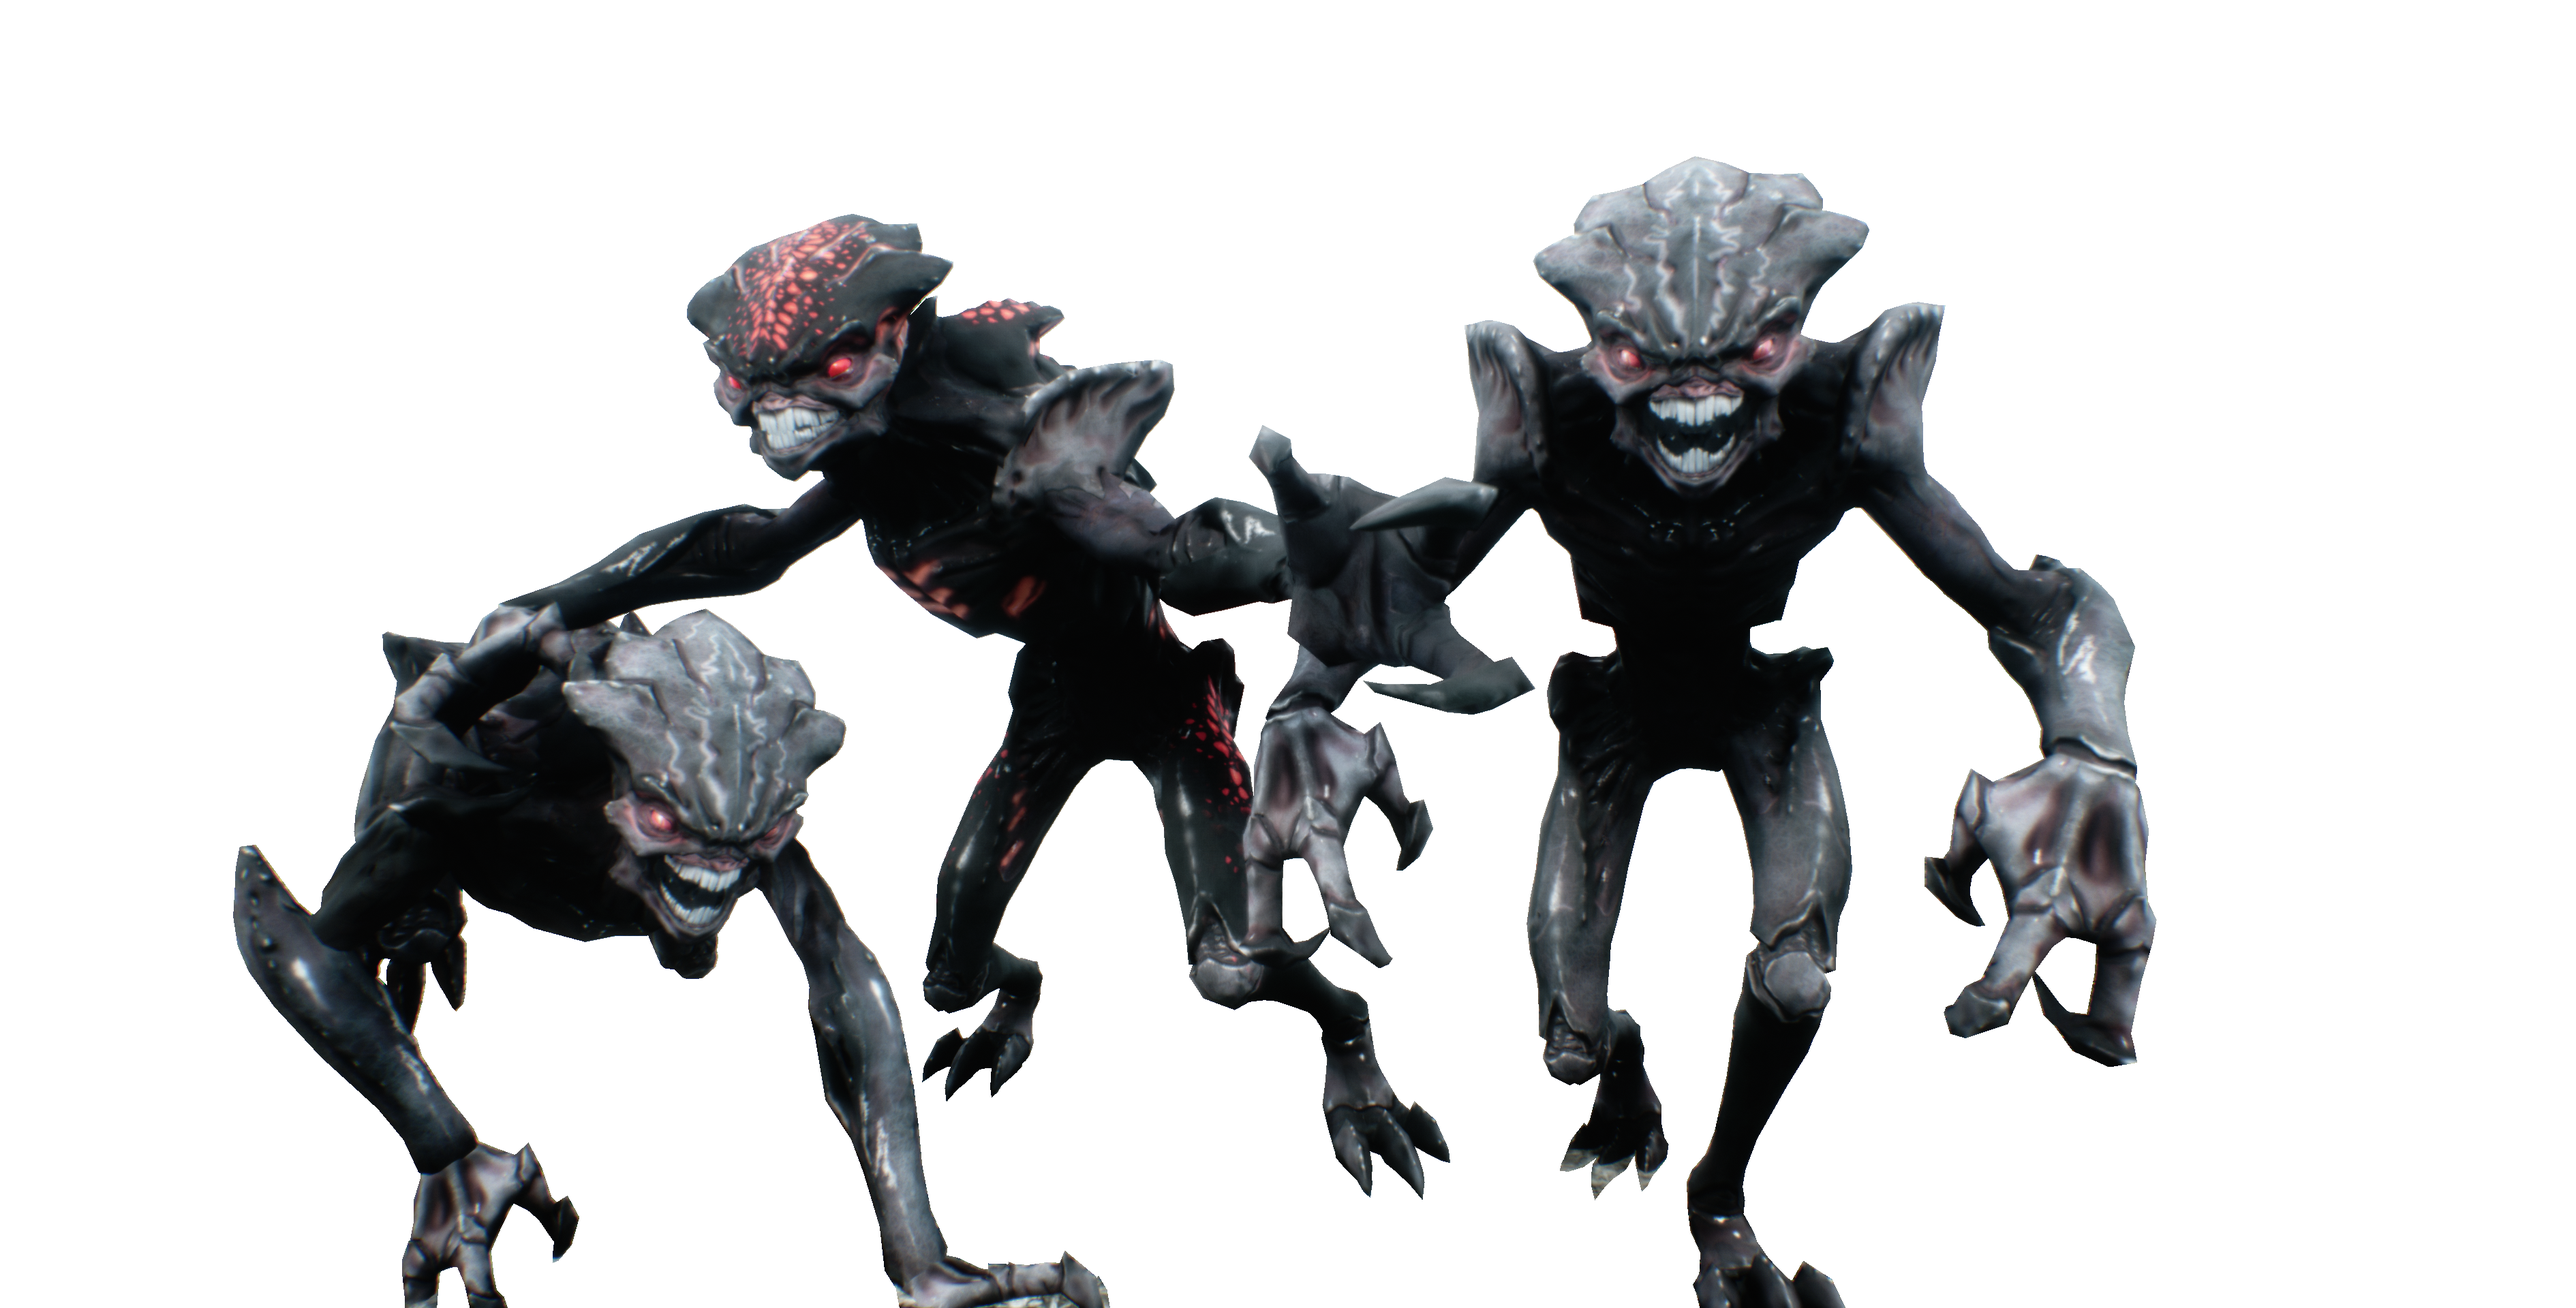
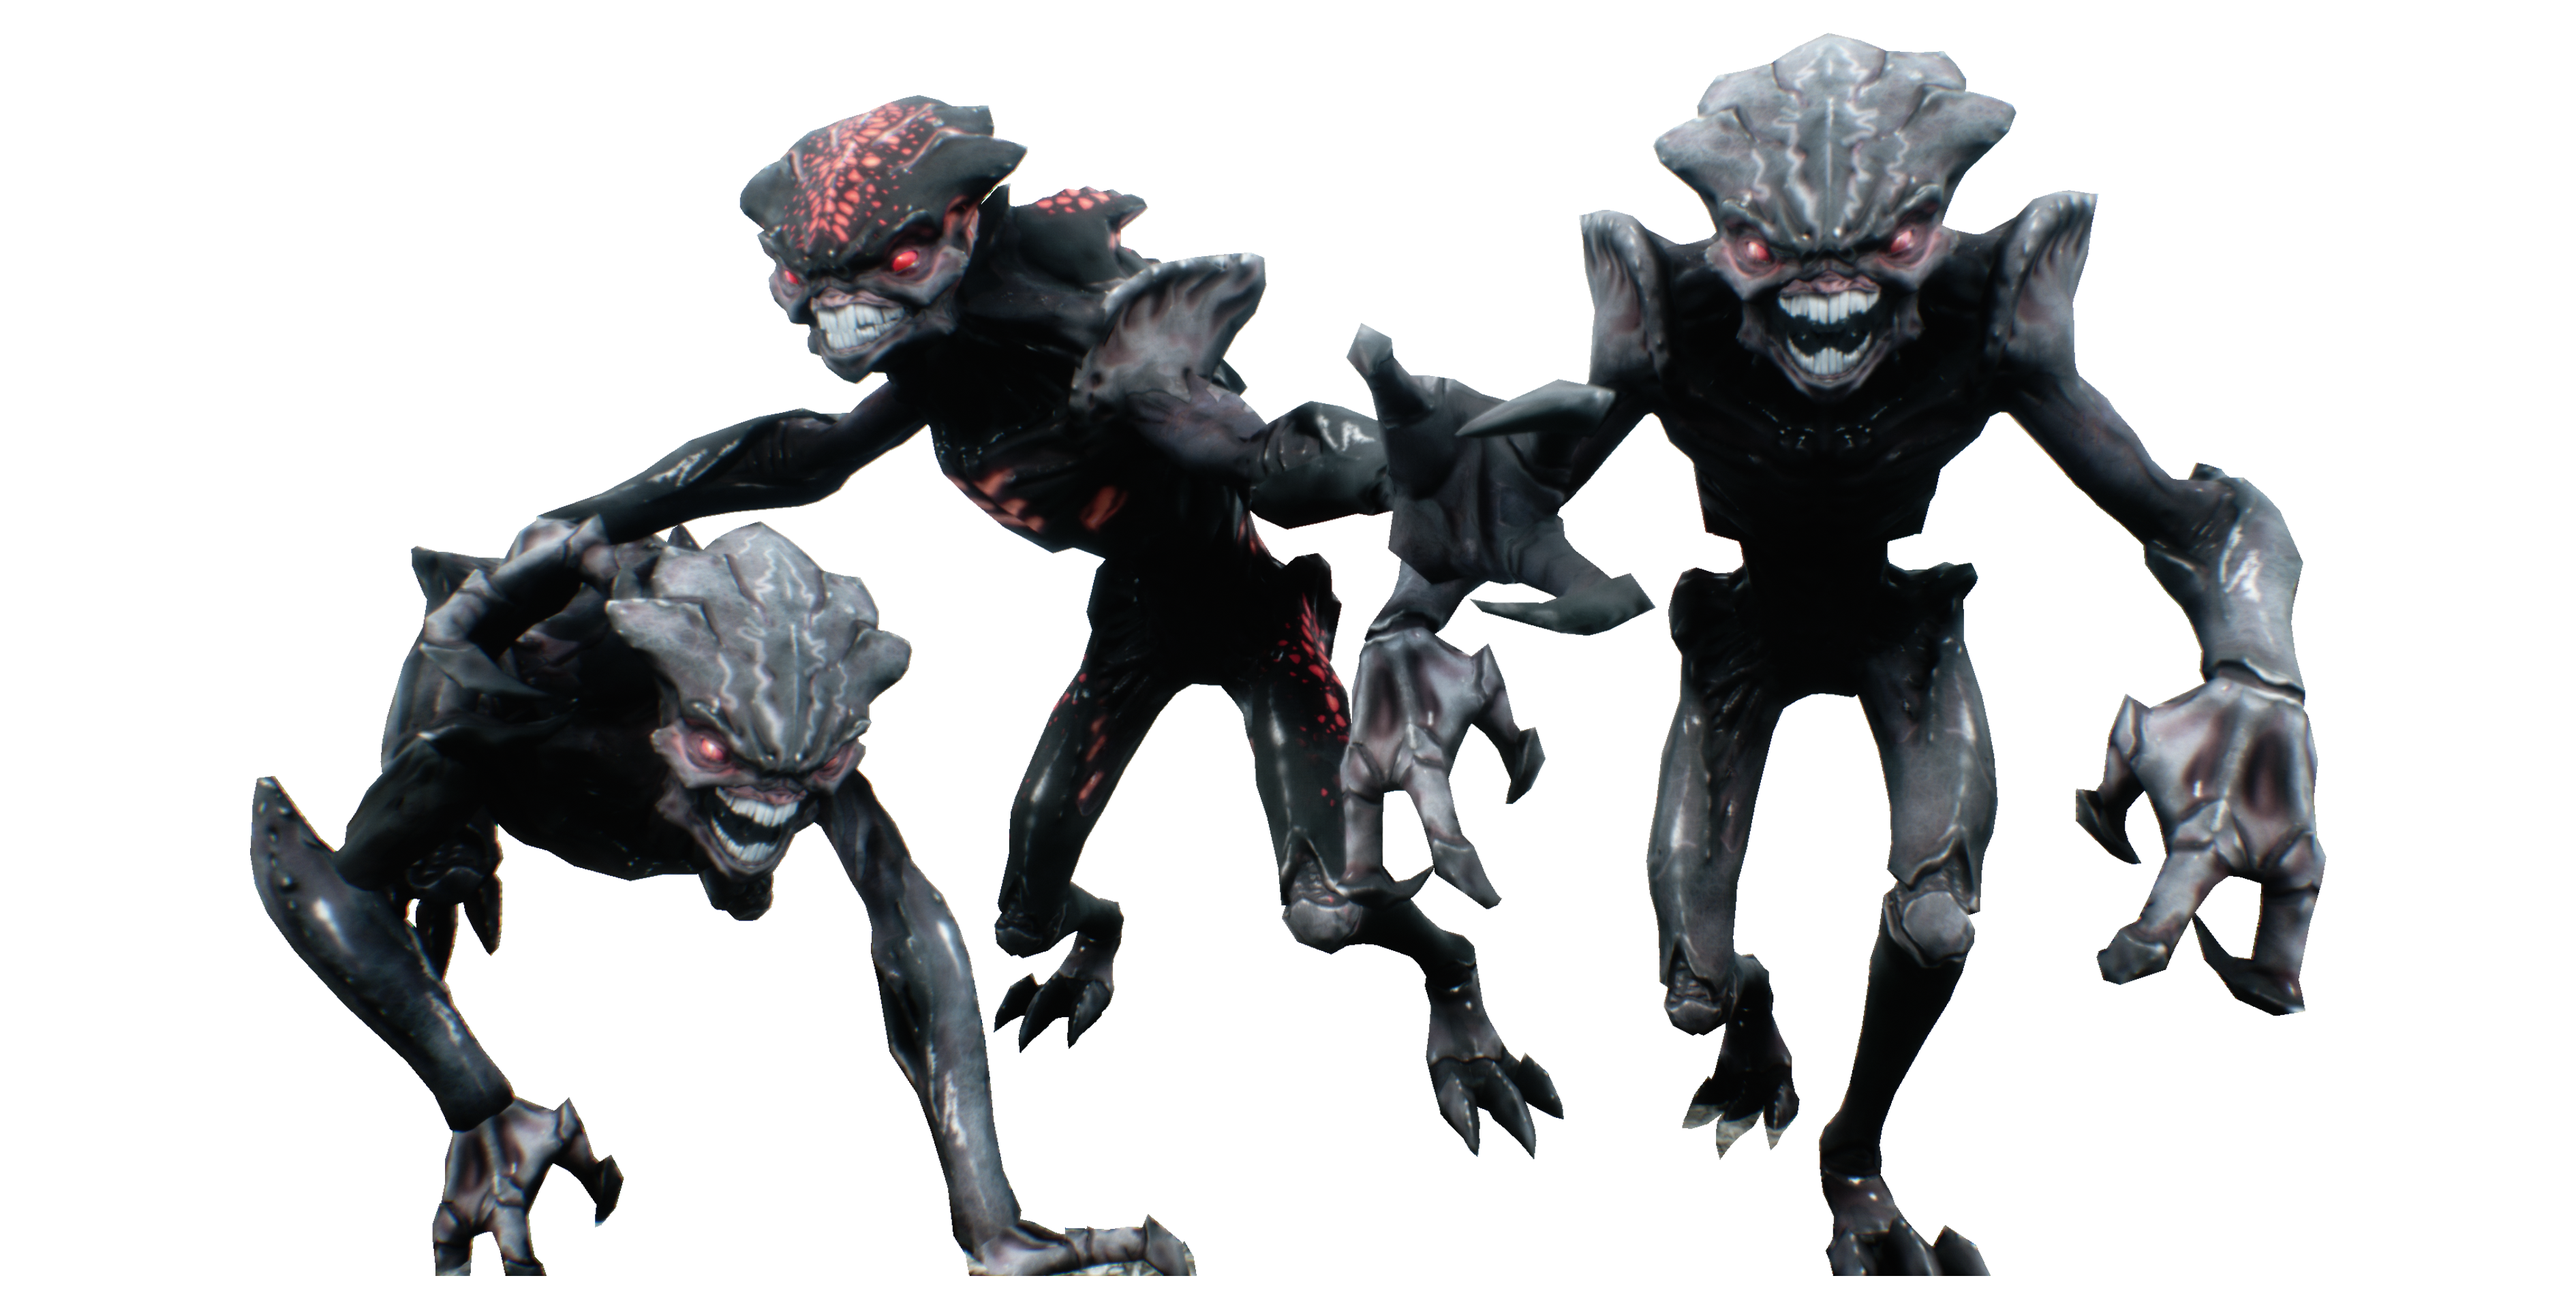
updated content, changed invader image

diff --git a/index.html b/index.html
@@ -10,6 +10,7 @@
   <link href="https://fonts.googleapis.com/css?family=Teko&display=swap" rel="stylesheet">
   <link href="https://unpkg.com/aos@2.3.1/dist/aos.css" rel="stylesheet">
   <link href="https://fonts.googleapis.com/css?family=Special+Elite&display=swap" rel="stylesheet">
+  <link href="https://fonts.googleapis.com/css?family=Oswald&display=swap" rel="stylesheet">
   <script src="https://unpkg.com/aos@2.3.1/dist/aos.js"></script>
   <script src="https://kit.fontawesome.com/75ad4010ea.js"></script>
   <link rel="stylesheet" href="https://cdnjs.cloudflare.com/ajax/libs/animate.css/3.7.2/animate.min.css">
@@ -74,12 +75,13 @@
       <div class="about-us-right">
         <h1 style="color:orange">OVERVIEW</h1>
         <hr>
-        <p data-aos="fade-right" class="aos-init aos-animate"> The No More Light is a hardcore survivor horror game
-          whereas a gamer you will gonna find yourself in a huge destroyed world that is under-occupied by aliens. Your
-          main goal is to save humanity from the total extinction, but first YOU must be reached the next day... It s
-          also a serious challenge. Fast-changing weather, alien bacteria, low ammo, food, and medkit, as well as stony
-          enemies, will cause you a lot of trouble at the gameplay. It is up to you what strategy you follow, but be
-          careful to make the right choice, because in this world there is no second chance...</p>
+        <p data-aos="fade-right" class="aos-init aos-animate">No More Light is a hardcore survivor horror game, where as a gamer you will find yourself
+          in a huge destroyed world, that is occupied by aliens. Your main goal is to save humanity 
+          from total extinction, but first YOU must live to see the next day... It’s also a serious challenge.
+          Fast-changing weather, alien bacteria, low ammunition
+          shortage of food, and medkit; as well as stony enemies, will cause you a lot of trouble.
+           It’s up to you what strategy you will follow, but be careful making the right choice, because in this
+            world there’s no second chance...</p>
         <a href="#gallery" class="button">MORE</a>
       </div>
     </section>
@@ -91,7 +93,7 @@
         <div>
             <h1>GREYS</h1>
             <h2>The situation is very <mark>hopeless</mark> and futureless...</h2>
-            <p>But - you don't need to fight alone against the Invaders!
+            <p>But - you don't have to to fight alone against the Invaders!
               <br>  
               The Greys
               will help you with this. They have been protecting humanity invisibly for thousands of years, and now they are
@@ -104,15 +106,15 @@
       
 <div>
     <h1>THE INVADERS</h1>
-    <h2>They are travel in the galaxy thousands of years, and <mark>invade</mark> every planet and use them for themselves, after
-        that they move on.</h2>
-    <p> This time the <mark>Earth</mark>  and humanity is the next. Their technology is more advanced than the
-      humans, their power is a multiple of the human, and they have thousands of years of experience in the galactic
-      warfare. Because they live FOR war because they live FROM war.</p>
+    <h2>They are traveling the galaxy for thousands of years,<mark>invading</mark> every planet to take them for themselves, and move on.</h2>
+    <p> Earth and <mark> humanity</mark> is next.Their technology is more advanced, they are multiple times more powerful,
+      than the humans, and they have thousands of years of experience in galactic warfare.
+      Because they live FOR war, because they live FROM war.
+      </p>
       
 </div>
 <div>
-    <img class="aw-image" src="img/invaders/invader-1.png" alt="">
+    <img class="aw-image" src="img/invaders/invaders-group.png" alt="">
 </div>
       </div>
       <div data-aos="fade-in" class="aw-cards">
@@ -121,11 +123,11 @@
         <h1>ATMOSPHERE</h1>
         <hr>
 
-        <p>There are many dangers involved in this enormous open world. Because of the alien bacteria, that are deadly
-          to all living things on earth recommended to wear protective equipment. If you choose to avoid them you still
-          need to be careful! In the destroyed towns and woods plenty of aliens are waiting to catch you... Because of
-          these, and many other things the No More Light has got a very depressing, post-apocalyptic atmosphere, which
-          will captivate you in the first moment..</p>
+        <p>There are many dangers involved in this enormous open world.
+          Because of the alien bacteria, that are deadly to all living things on earth, it’s recommended to wear protective equipment.
+          If you choose to avoid them, you still need to be careful!
+          In the destroyed towns and woods there are plenty of aliens who are waiting to catch you...
+          Because of these, and many other things, No More Light has a very depressing, post-apocalyptic atmosphere, which will captivate you from the first moment..</p>
 
       </div>
       <div  data-aos="fade-in" class="aw-cards">
@@ -138,7 +140,7 @@
 
             There are over 100 exclusive detailed places like military bases, bunkers, caves, cities, farms, marshes, factories, wreck sites waiting for you to explore them.
             But be careful! 
-            In this fast-changing darkness world only one thing sure: you are in danger! 
+            In this fast-changing dark world there's only one thing that's sure: You are in danger! 
             The only question is: Are you ready for the battle and the survival? 
             </p>
       </div>
@@ -148,13 +150,13 @@
         <h1>ACTION</h1>
         <hr>
 
-        <p>Only thing matters The Fight!
-            You must be fight against the brutal aliens who are constantly chasing you
-            You must be fight against the weather what changes in a seconds
-            You must be fight for the food. There are only a few and others want it as well.
-            You must be fight against the low ammo. There is a little of it and run out quickly in a battle.
-            You must be fight against your condition. There s not enough medicine so better if you don t hurt yourself. But you will...
-            And finally, you must be fight against you to don t give up...</p>
+        <p>Only thing matters: the fight!
+          You must fight against the brutal aliens who are constantly chasing you.
+          You must fight against the weather that can change in any second. 
+          You must fight for the food. There’s only a few and others want it as well. 
+          You must fight against the low ammunition. There’s few of it and they run out quickly in a battle.
+          You must fight against your condition. There are not enough medicines so you had better not hurt yourself.
+          But you will... And finally, you must fight against yourself to don’t give up...</p>
 
       </div>
     </section>

diff --git a/main.css b/main.css
@@ -101,7 +101,7 @@ p {
 }
 
 .layer-3 {
-	background-image: url(img/invaders/invader-1.png);
+	background-image: url(img/threeufos.png);
 	background-position: right bottom;
 	filter: saturate(60%);
 	background-size: 45vw;
@@ -228,7 +228,7 @@ hr {
 
 .awards {
 	grid-area: awards;
-	padding:2rem 0rem 2rem 0rem;
+	padding:2rem;
 	background-color: #130D0A;
 	background-repeat: no-repeat;
 	background-position: center;
@@ -246,7 +246,7 @@ hr {
 	padding:1rem;
 
 	transition: all 1s cubic-bezier(.25, .8, .25, 1);
-	text-align: justify;
+	text-align: left;
 }
 #big-card{
 	padding:0rem 2rem 0rem 2rem;
@@ -776,4 +776,6 @@ nav.fill ul li a:hover:after {
 	}
   }
   
-  
+  p{
+	font-family: 'Oswald', sans-serif;
+  }
